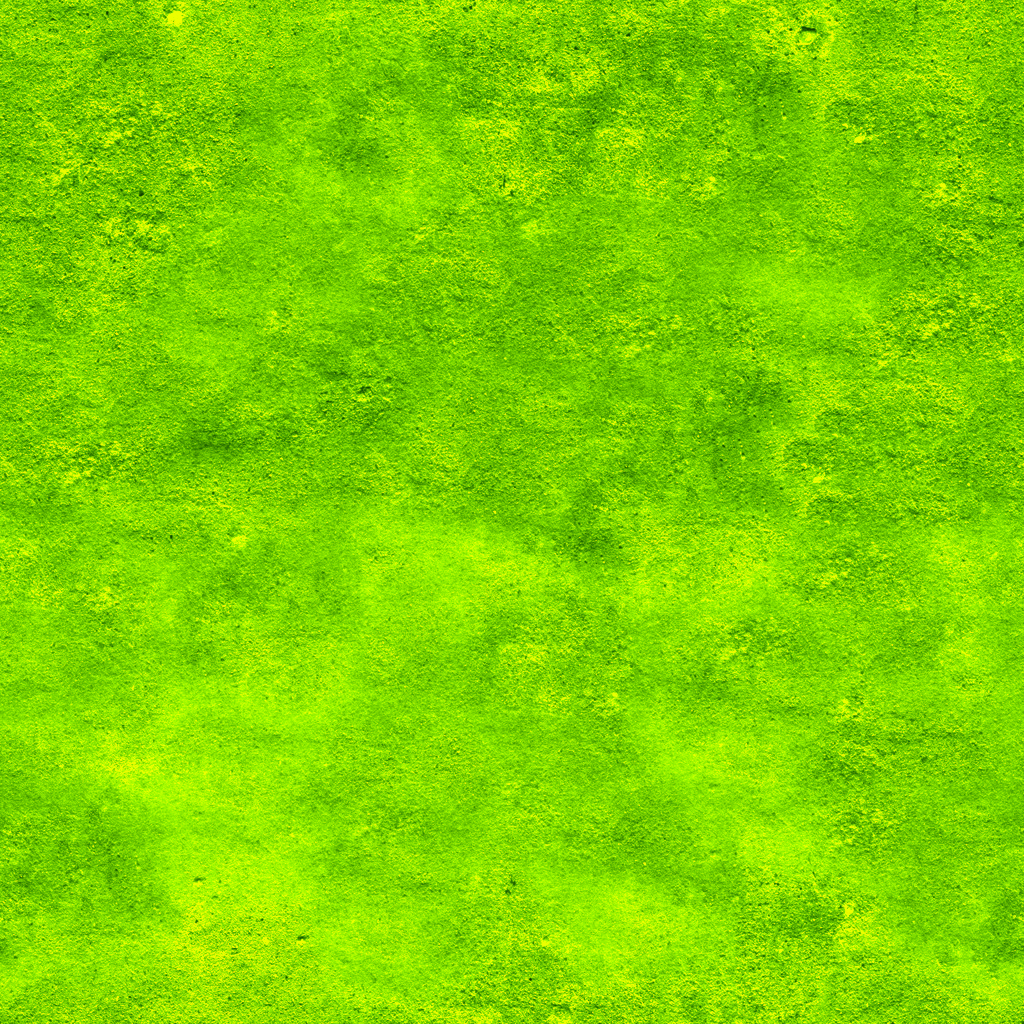
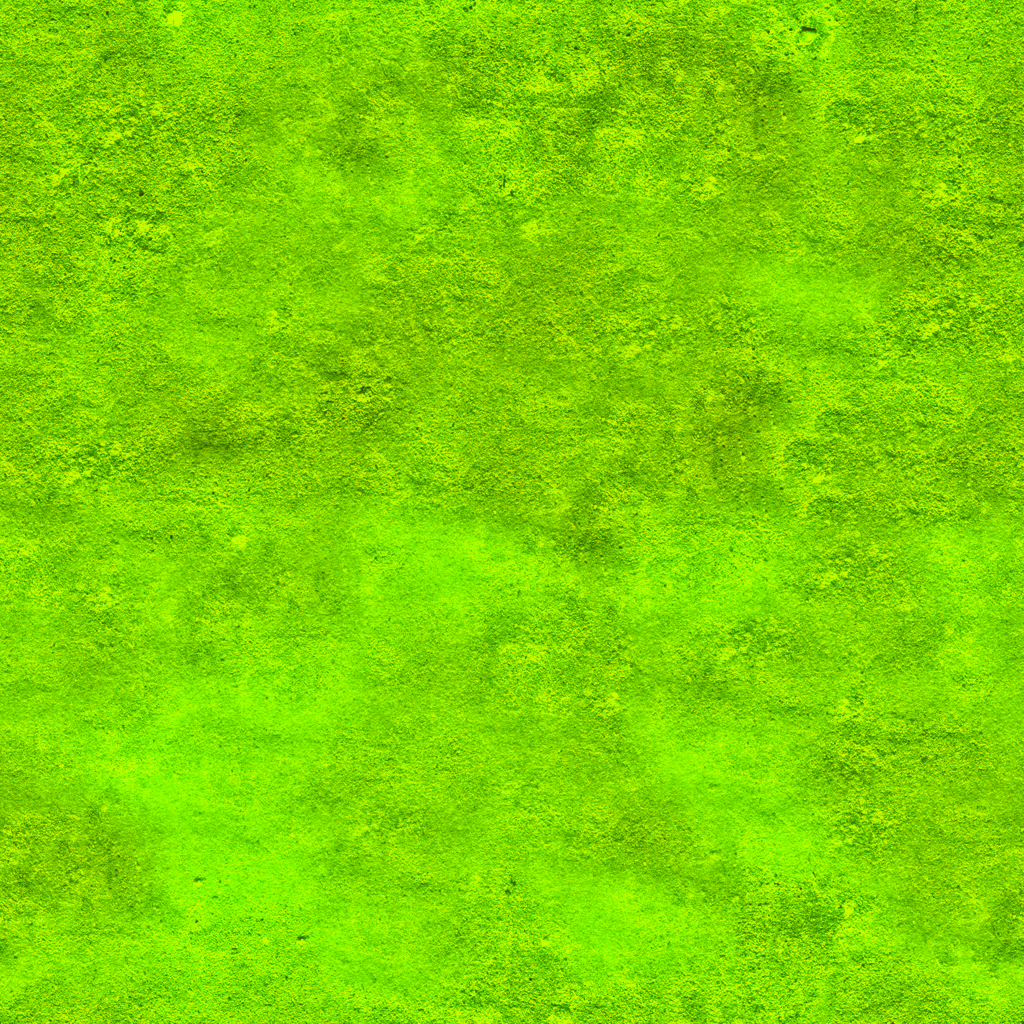
Separate architectural scan detail from repeating captured wear
Repair rejected round-0715 wall bands and cloudy timber by locally normalizing albedo and filtering broad normal slopes before packing. Add negative controls for the raw scan treatment and positive retained-detail controls.

diff --git a/src/core/architectural-materials.ts b/src/core/architectural-materials.ts
@@ -76,10 +76,12 @@ function nodes(surface: THREE.Texture, normal: THREE.Texture, profile: Profile) 
   const gradient = gx.mul(w.x).add(gy.mul(w.y)).add(gz.mul(w.z));
   const relief = gradient.sub(n.mul(gradient.dot(n)));
   const perturbed = n.add(relief.mul(profile.normal)).normalize();
-  // Low-frequency, restrained application wear complements the real fine scan.
-  // It is spatially fixed, bounded and never driven by time or random state.
-  const wear = p.x.mul(0.61).add(p.z.mul(0.47)).sin()
-    .mul(p.y.mul(0.83).add(p.z.mul(0.19)).sin()).mul(wood ? 0.035 : 0.025);
+  // Scan packing removes broad captured staining and normal bias. Application
+  // wear therefore lives at building scale, not in a repeating one-metre tile.
+  // Two oblique long waves have no aligned repeat over a house; amplitude is
+  // bounded to +/-1.7%, so they cannot become dark wet/mould stripes.
+  const wear = p.dot(vec3(0.11, 0.07, 0.17)).sin().mul(0.012)
+    .add(p.dot(vec3(0.31, 0.23, 0.13)).sin().mul(0.005));
   const variation = scan.r.mul(2).sub(1).mul(profile.contrast).add(1).add(wear);
   return {
     colorNode: vec4(materialColor.rgb.mul(variation), 1),

diff --git a/scripts/pack-architecture-textures.py b/scripts/pack-architecture-textures.py
@@ -1,19 +1,24 @@
 """Deterministic technical channel packing of the recorded CC0 source scans.
 
-R = linear diffuse luminance / tile mean / 2; G = source roughness; B = 0;
-A = 255. Normals remain OpenGL tangent-space, renormalized after downsampling.
+R = locally normalized linear diffuse luminance / 2; G = source roughness; B = 0;
+A = 255. OpenGL normal slopes are high-pass filtered, then renormalized.
 No authored lighting, fake AO, shadows, cracks or painted geometry are added.
 """
 from pathlib import Path
 import hashlib
 import json
 import math
+import sys
+from io import BytesIO
 import numpy as np
 from PIL import Image
+from scipy.ndimage import gaussian_filter
 
 ROOT = Path(__file__).resolve().parents[1] / 'public/assets/architecture-pbr'
 manifest = json.loads((ROOT / 'provenance.json').read_text())
 manifest['derivations'] = []
+check_only = '--check' in sys.argv
+quality = []
 for source in manifest['sources']:
     timber = source['id'] == 'brown_planks_09'
     name = 'timber' if timber else 'plaster'
@@ -42,19 +47,59 @@ for source in manifest['sources']:
     diffuse = channels['Diffuse']
     linear = np.where(diffuse <= 0.04045, diffuse / 12.92, ((diffuse + 0.055) / 1.055) ** 2.4)
     luminance = linear @ np.array([0.2126, 0.7152, 0.0722], dtype=np.float32)
-    relative = np.clip(luminance / luminance.mean() * 0.5, 0.08, 0.92)
+    # Raw diffuse contains captured metre-scale staining/clouds. Remove that
+    # scale rather than repeating it as authored wall weathering. Grain and
+    # fine plaster colour remain; broad application wear belongs in world space.
+    blur_pixels = (24, 36) if timber else (24, 24)
+    local_mean = gaussian_filter(luminance, sigma=blur_pixels, mode='wrap')
+    relative = np.clip(luminance / np.maximum(local_mean, 1e-4) * 0.5, 0.22, 0.78)
     packed = np.zeros((*luminance.shape, 4), dtype=np.uint8)
     packed[:, :, 0] = np.rint(relative * 255).astype(np.uint8)
     packed[:, :, 1] = np.rint(channels['Rough'][:, :, 0] * 255).astype(np.uint8)
     packed[:, :, 3] = 255
-    normal = channels['nor_gl'] * 2 - 1
+    source_normal = channels['nor_gl'] * 2 - 1
+    slopes = source_normal[:, :, :2] / np.maximum(source_normal[:, :, 2:], 0.25)
+    # The plaster's source mean XY slope is about (-.077,-.079). Preserving that
+    # plus broad scan undulations caused the repeated scalloped bands in round
+    # 0715. Remove wavelengths above ~4 cm, keeping real millimetre relief.
+    broad_slopes = gaussian_filter(slopes, sigma=(*blur_pixels, 0), mode='wrap')
+    detail_slopes = slopes - broad_slopes
+    normal = np.concatenate([detail_slopes, np.ones((*luminance.shape, 1), dtype=np.float32)], axis=2)
     normal /= np.maximum(np.linalg.norm(normal, axis=2, keepdims=True), 1e-6)
     normal = np.rint(np.clip(normal * 0.5 + 0.5, 0, 1) * 255).astype(np.uint8)
+    # Frozen repair-1 negative controls: reject the raw scan's broad normal tilt
+    # and dirty low-frequency luminance, but also reject a flattened/no-grain map.
+    decoded = normal.astype(np.float64) / 255 * 2 - 1
+    decoded_slopes = decoded[:, :, :2] / np.maximum(decoded[:, :, 2:], .25)
+    low_slope_rms = float(np.sqrt(np.mean(gaussian_filter(decoded_slopes, (32,32,0), mode='wrap') ** 2)))
+    detail_slope_rms = float(np.sqrt(np.mean(decoded_slopes ** 2)))
+    low_luminance_std = float(gaussian_filter(packed[:,:,0].astype(np.float64)/255, 32, mode='wrap').std())
+    raw_low_slope_rms = float(np.sqrt(np.mean(gaussian_filter(slopes, (32,32,0), mode='wrap') ** 2)))
+    raw_low_luminance_std = float(gaussian_filter(luminance/luminance.mean()/2, 32, mode='wrap').std())
+    assert low_slope_rms < .005, (name, 'broad normal bands')
+    assert low_luminance_std < .016, (name, 'repeating colour clouds')
+    assert detail_slope_rms > .015, (name, 'fine relief lost')
+    assert packed[:,:,0].std()/255 > .04, (name, 'fine colour variation lost')
+    assert raw_low_slope_rms > .005 and raw_low_luminance_std > .016, (name, 'negative control stopped rejecting raw scan')
+    if timber:
+        grain = packed[:,:,0].astype(np.float64)/255
+        along = np.diff(grain,axis=1).std()/(700/1024/1024)
+        across = np.diff(grain,axis=0).std()/(123/1024/256)
+        assert across/along > 1.3, 'timber lost directional grain'
+    quality.append({'material': name, 'lowSlopeRms': low_slope_rms,
+        'fineSlopeRms': detail_slope_rms, 'lowLuminanceStd': low_luminance_std,
+        'rawLowSlopeRmsRejected': raw_low_slope_rms,
+        'rawLowLuminanceStdRejected': raw_low_luminance_std})
     for suffix, array in [('surface', packed), ('normal', normal)]:
         path = ROOT / f'{name}-{suffix}.png'
-        Image.fromarray(array).save(path, optimize=True)
+        encoded = BytesIO(); Image.fromarray(array).save(encoded, format='PNG', optimize=True)
+        if check_only:
+            assert path.read_bytes() == encoded.getvalue(), f'{path.name} does not match source recipe'
+        else:
+            path.write_bytes(encoded.getvalue())
         manifest['derivations'].append({'path': path.name, 'source': source['id'],
-            'operation': 'linear luminance and roughness packing' if suffix == 'surface' else 'OpenGL normal resize and renormalize',
+            'operation': 'local linear-luminance normalization and roughness packing' if suffix == 'surface' else 'OpenGL normal slope high-pass and renormalization',
+            'localNormalizationSigmaPixels': blur_pixels,
             'sourceCropPixels': crop, 'edgeFeatherPixels': [16,32] if timber else None, 'dimensions': size,
             'physicalTileMeters': [(crop[2]-crop[0])/1024, (crop[3]-crop[1])/1024],
             'bytes': path.stat().st_size, 'sha256': hashlib.sha256(path.read_bytes()).hexdigest()})
@@ -62,5 +107,8 @@ manifest['packedRuntimeBytesWithMipmaps'] = math.ceil(sum(d['dimensions'][0]*d['
 manifest['totalAssetBytes'] = sum(p.stat().st_size for p in ROOT.glob('*') if p.name != 'provenance.json')
 assert manifest['totalAssetBytes'] < 8_000_000
 assert manifest['packedRuntimeBytesWithMipmaps'] <= 24*1024*1024
-(ROOT / 'provenance.json').write_text(json.dumps(manifest, indent=2)+'\n')
-print(json.dumps({k: manifest[k] for k in ['totalAssetBytes', 'packedRuntimeBytesWithMipmaps']}))
+manifest['repair1QualityControls'] = quality
+if not check_only:
+    (ROOT / 'provenance.json').write_text(json.dumps(manifest, indent=2)+'\n')
+print(json.dumps({'status': 'PASS', 'checkOnly': check_only,
+    **{k: manifest[k] for k in ['totalAssetBytes', 'packedRuntimeBytesWithMipmaps']}, 'quality': quality}))

diff --git a/docs/astra-architecture-handoff.md b/docs/astra-architecture-handoff.md
@@ -70,7 +70,7 @@ All ten source/derived texture hashes and the PNG dimensions match provenance.
 Normal-map finite/unit checks measured maximum length error 0.00536 after 8-bit
 encoding. No GPU/browser/Blender process was launched by this lane.
 
-Payload: 7,314,524 texture bytes plus a small JSON manifest (below 8 MB). Four
+Repair-1 payload: 7,247,779 texture bytes plus a small JSON manifest (below 8 MB). Four
 runtime maps: plaster 1024x1024 x2, timber 1024x256 x2. Conservative RGBA8 decoded
 estimate with mipmaps is 13,981,014 bytes (13.33 MiB). There are six texture samples
 per shaded pixel (three projections each for packed surface and normal), compared
@@ -94,6 +94,40 @@ Use unchanged glazing and `lighting=authored` alongside `architecture=canary`.
 Keep geometry/draw/light counts stable; inspect rounded capsule blending and the
 one-metre plaster scale. No lighting refresh hook or per-frame update is required.
 
-Repair log: no visual repairs yet (two available). One pre-handoff TypeScript
-failure (number-array used where TSL vec2 was required) was corrected without
-weakening a check. Frozen criteria and failed evidence remain unchanged.
+## Visual repair 1 — rejected source preserved
+
+The initial candidate `c3d5504` is REJECTED visually. Parent reports its assembled
+source `6158ab2` booted eight frames without errors or new draws, but root's actual
+`captures/gauntlet/architecture/round-0715/after-spawnA.png` and
+`after-interiorOrange.png` visibly show scalloped/mould-like wall bands, cloudy
+timber and a dirty roof underside. Inspected both against `before-spawnA.png`.
+This rejection is not overridden by the initial CPU pass. The rejected maps remain
+recoverable in Git and the raw licensed inputs remain byte-identical.
+
+Cause: the source scan's metre-scale staining and low-frequency normal slopes were
+repeated as wall relief. Timber's broad board-colour clouds similarly outweighed
+grain after minification. This repair locally normalizes linear scan luminance
+and high-pass filters normal slopes before packing; it does not blindly reduce
+the existing normal/colour profile strengths. Fine scanned relief, grain and
+roughness remain. World-space application variation is bounded to +/-1.7% over
+building-scale distances rather than repeating source dirt at every metre.
+
+Frozen repair controls (`python scripts/pack-architecture-textures.py --check`):
+local-normal slope RMS <0.005 and broad packed-luminance std <0.016; fine-slope
+RMS >0.015 and fine-colour std >0.04 so a flat replacement cannot pass. The raw
+source must FAIL both broad-frequency controls. Timber's physical across-grain
+gradient must exceed along-grain by 1.3x (measured 1.80x). The check mode is read-only
+and verifies deterministic byte equality with the recipe.
+
+VERIFIED results: plaster broad-slope RMS 0.07780 -> 0.00089, timber 0.02877 ->
+0.00268; broad-colour std 0.04146 -> 0.00596 and 0.05074 -> 0.01062, respectively.
+Fine-slope RMS remains 0.03774/0.03866. All lifecycle/hash checks and `npm run check`
+pass. Four textures, dimensions, material scope, draw count contract and assembly
+API remain unchanged. No GPU used by this lane.
+
+OPEN fixed-image acceptance: spawnA cream and terracotta walls must lose the
+vertical scallop rows; the roof underside must read clean matte cream; the timber
+post/chair should show fine directional grain instead of broad muddy clouds.
+InteriorOrange must lose the repeated wet-looking bands while retaining fine
+plaster detail. Root must compare against BOTH original baseline and rejected
+round-0715 pixels. One visual repair remains after this candidate.
